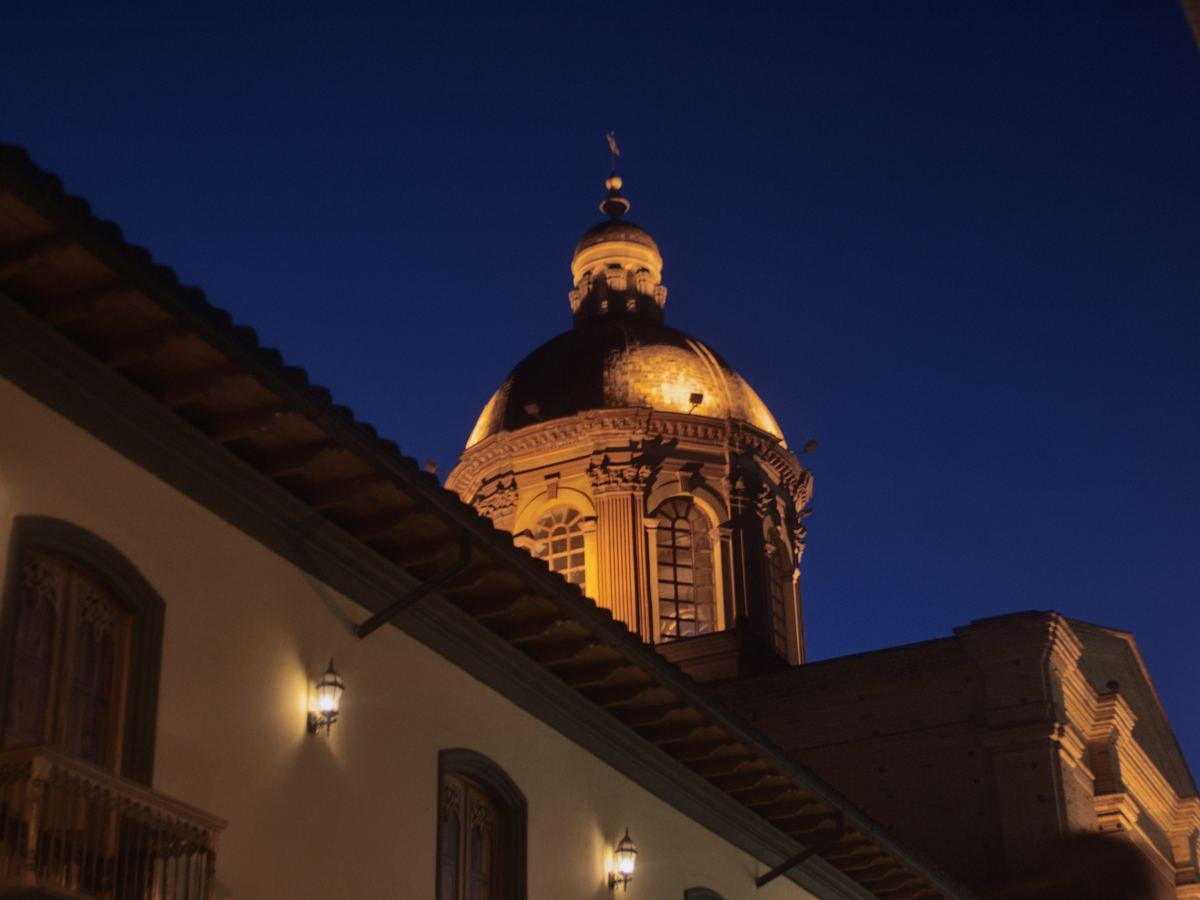
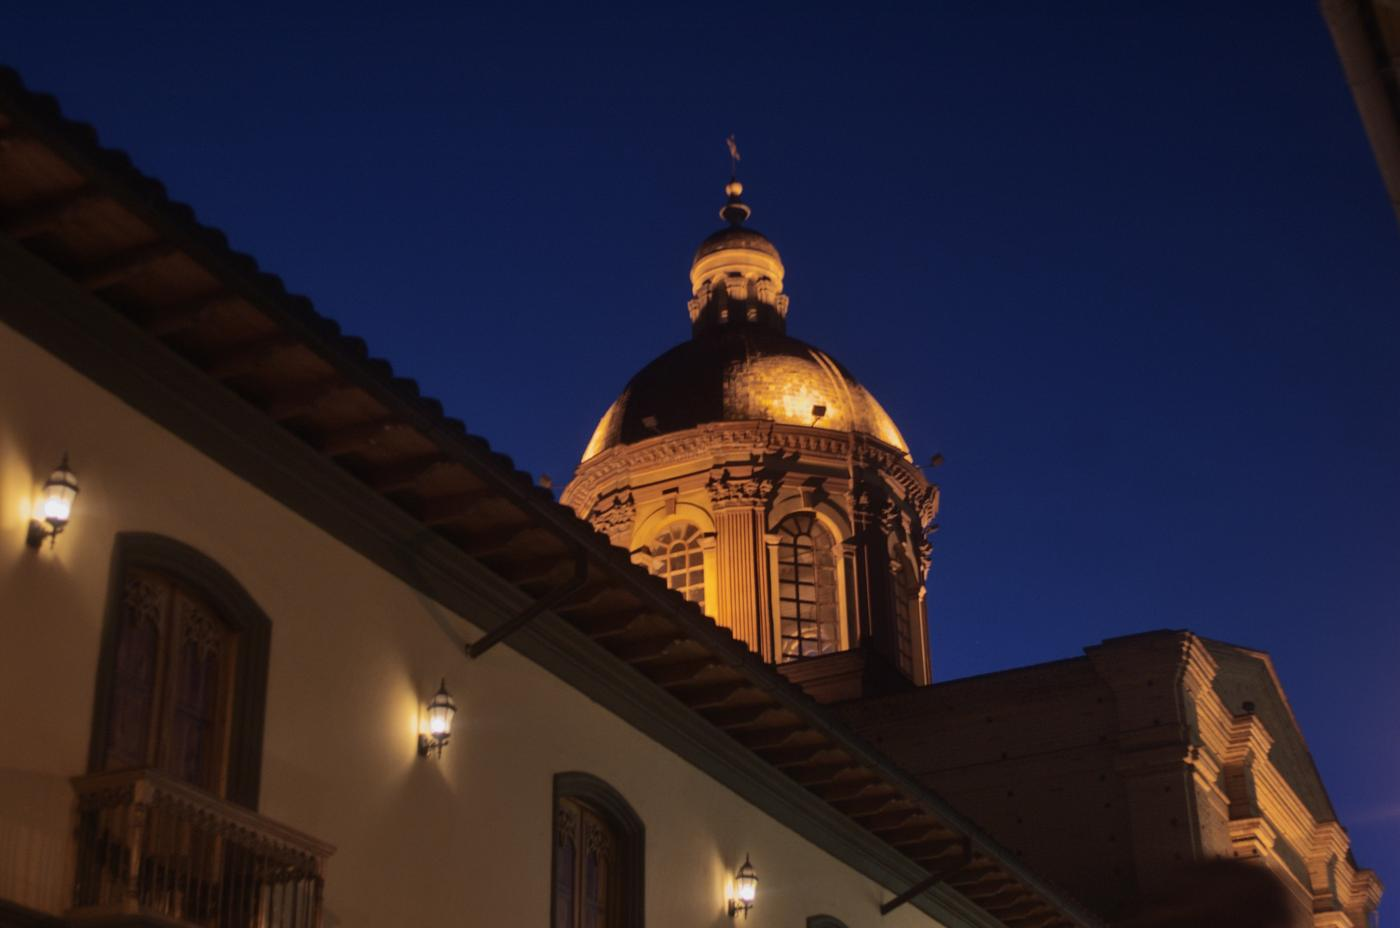
Mostra a catedral inteira no carrossel da cerimônia.
O enquadramento deixa de cortar a fachada em 4:3 e passa a usar a foto completa, para as torres e as laterais aparecerem no celular e no desktop.

diff --git a/index.html b/index.html
@@ -384,24 +384,34 @@
       scrollbar-width: none;
       -webkit-overflow-scrolling: touch;
       overscroll-behavior-x: contain;
-      aspect-ratio: 4 / 3;
+      /* Same proportion as the full daytime facade, so that photo is not cropped. */
+      aspect-ratio: 1400 / 1322;
       outline: none;
     }
     .venue-carousel-track::-webkit-scrollbar { display: none; }
     .venue-carousel-track:focus-visible { outline: 2px solid var(--olive); outline-offset: -2px; }
-    .venue-carousel-track img {
-      flex: 0 0 100%;
-      width: 100%;
+    .venue-slide {
+      flex: 0 0 auto;
+      min-width: 0;
       height: 100%;
-      min-width: 100%;
-      object-fit: cover;
       scroll-snap-align: start;
       scroll-snap-stop: always;
+      display: flex;
+      align-items: center;
+      justify-content: center;
+      overflow: hidden;
+    }
+    .venue-carousel-track img {
+      width: 100%;
+      height: 100%;
+      object-fit: contain;
+      object-position: center center;
       display: block;
       filter: saturate(.94) contrast(.97);
       user-select: none;
       -webkit-user-drag: none;
     }
+    .venue-slide--low img { object-position: center bottom; }
     .venue-carousel-arrow {
       position: absolute;
       top: 50%;
@@ -1189,11 +1199,21 @@
         <div class="venue-carousel" role="region" aria-roledescription="carrusel" aria-label="Fotos de la Catedral Sagrado Corazón de Jesús">
           <div class="venue-carousel-stage">
             <div class="venue-carousel-track" tabindex="0">
-              <img src="catedral-pasto-dia-fachada.jpeg" alt="Fachada de la Catedral Sagrado Corazón de Jesús en Pasto, de día" class="cat-lb" width="1200" height="900">
-              <img src="catedral-pasto-dia-torres.jpeg" alt="Torres de la Catedral Sagrado Corazón de Jesús en Pasto, de día" class="cat-lb" width="1200" height="900" loading="lazy">
-              <img src="catedral-pasto-atardecer.jpeg" alt="Catedral Sagrado Corazón de Jesús de Pasto iluminada al anochecer" class="cat-lb" width="1200" height="900" loading="lazy">
-              <img src="catedral-pasto-noche.jpeg" alt="Catedral Sagrado Corazón de Jesús de Pasto iluminada de noche" class="cat-lb" width="1200" height="900" loading="lazy">
-              <img src="catedral-pasto-noche-cupula.jpeg" alt="Cúpula iluminada de la Catedral Sagrado Corazón de Jesús en Pasto" class="cat-lb" width="1200" height="900" loading="lazy">
+              <div class="venue-slide" style="background:#0c4ea3">
+                <img src="catedral-pasto-dia-fachada.jpeg" alt="Fachada de la Catedral Sagrado Corazón de Jesús en Pasto, de día" class="cat-lb" width="1400" height="1322">
+              </div>
+              <div class="venue-slide" style="background:#5b9ad6">
+                <img src="catedral-pasto-dia-torres.jpeg" alt="Torres de la Catedral Sagrado Corazón de Jesús en Pasto, de día" class="cat-lb" width="1200" height="1600" loading="lazy">
+              </div>
+              <div class="venue-slide venue-slide--low" style="background:#1d3d68">
+                <img src="catedral-pasto-atardecer.jpeg" alt="Catedral Sagrado Corazón de Jesús de Pasto iluminada al anochecer" class="cat-lb" width="1400" height="1050" loading="lazy">
+              </div>
+              <div class="venue-slide venue-slide--low" style="background:#05060a">
+                <img src="catedral-pasto-noche.jpeg" alt="Catedral Sagrado Corazón de Jesús de Pasto iluminada de noche" class="cat-lb" width="1400" height="1050" loading="lazy">
+              </div>
+              <div class="venue-slide venue-slide--low" style="background:#0b1c3d">
+                <img src="catedral-pasto-noche-cupula.jpeg" alt="Cúpula iluminada de la Catedral Sagrado Corazón de Jesús en Pasto" class="cat-lb" width="1400" height="928" loading="lazy">
+              </div>
             </div>
             <button type="button" class="venue-carousel-arrow venue-carousel-prev" aria-label="Foto anterior">&#8592;</button>
             <button type="button" class="venue-carousel-arrow venue-carousel-next" aria-label="Foto siguiente">&#8594;</button>
@@ -2270,6 +2290,7 @@
     const root = document.querySelector('.venue-carousel');
     if (!root) return;
     const track = root.querySelector('.venue-carousel-track');
+    const frames = Array.from(track.querySelectorAll('.venue-slide'));
     const slides = Array.from(track.querySelectorAll('img'));
     const dots = Array.from(root.querySelectorAll('.venue-carousel-dots button'));
     const credits = Array.from(root.querySelectorAll('.venue-credit'));
@@ -2298,11 +2319,22 @@
         : `Foto ${n} de ${slides.length}`;
     };
 
+    function sizeFrames() {
+      const width = track.getBoundingClientRect().width;
+      if (!width) return;
+      frames.forEach(frame => {
+        frame.style.flexBasis = width + 'px';
+        frame.style.width = width + 'px';
+      });
+    }
+
     function scrollToIndex(i) {
       const total = slides.length;
       const next = (i + total) % total;
+      sizeFrames();
+      const step = frames[0].getBoundingClientRect().width || track.clientWidth;
       track.scrollTo({
-        left: next * track.clientWidth,
+        left: next * step,
         behavior: reduceMotion ? 'auto' : 'smooth'
       });
     }
@@ -2312,7 +2344,7 @@
     dots.forEach((dot, i) => dot.addEventListener('click', () => scrollToIndex(i)));
 
     track.addEventListener('scroll', () => {
-      const width = track.clientWidth || 1;
+      const width = frames[0].getBoundingClientRect().width || track.clientWidth || 1;
       const next = Math.max(0, Math.min(slides.length - 1, Math.round(track.scrollLeft / width)));
       sync(next);
     }, { passive: true });
@@ -2326,8 +2358,13 @@
     });
 
     window.addEventListener('resize', () => {
-      track.scrollTo({ left: index * track.clientWidth, behavior: 'auto' });
+      sizeFrames();
+      const step = frames[0].getBoundingClientRect().width || track.clientWidth;
+      track.scrollTo({ left: index * step, behavior: 'auto' });
     });
+    sizeFrames();
+    requestAnimationFrame(() => requestAnimationFrame(sizeFrames));
+    window.addEventListener('load', sizeFrames);
 
     announceVenueSlide();
   })();
